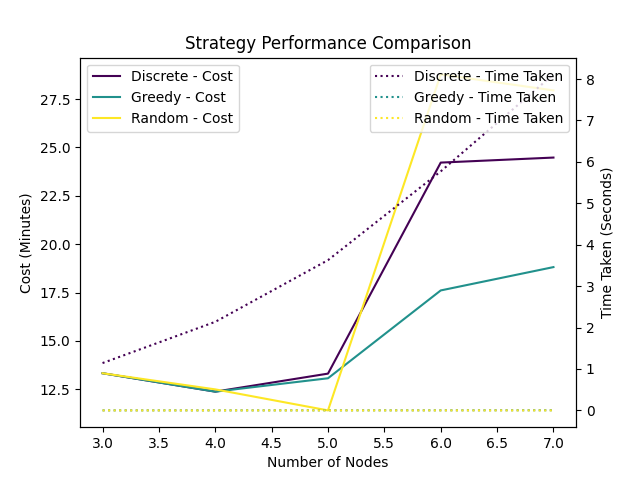
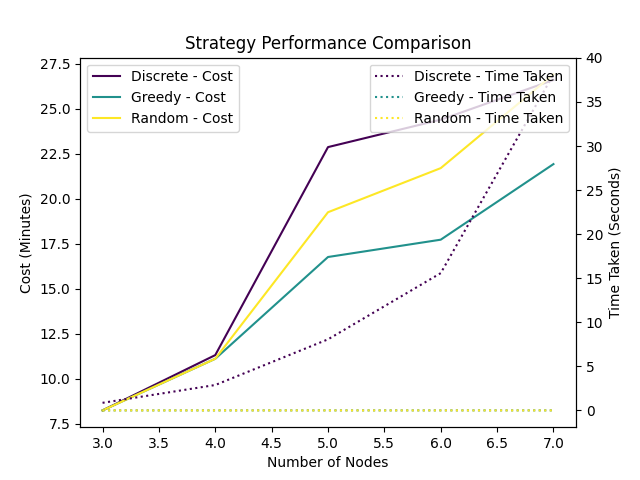
⚡ (speed up): Discrete strategy computes distances instead of recurring to a saved object

diff --git a/trafficTSP/Approaches/DiscreteWithGraph/discrete_strategy.py b/trafficTSP/Approaches/DiscreteWithGraph/discrete_strategy.py
@@ -5,9 +5,9 @@ Instead of passing once through each node, we pass by one of its vertices.
 """
 from itertools import product
 from collections import namedtuple
-from trafficTSP.Approaches.DiscreteWithGraph.discretise_graph import (
-    discretise_and_approximate_graph
-)
+# from trafficTSP.Approaches.DiscreteWithGraph.discretise_graph import (
+#     discretise_and_approximate_graph
+# )
 from ortools.linear_solver import pywraplp
 
 # Define Edge as a named tuple to improve readability
@@ -15,15 +15,17 @@ Edge = namedtuple('Edge', ['start_node', 'start_step', 'end_node', 'end_step'])
 
 
 def discrete_strategy(graph: dict,
-                      n_bins: int = 20,
+                      n_bins: int = 100,
                       starting_node: int = 0
                       ) -> float:
     """
     Discrete strategy to solve the TSP using OR-Tools.
     """
     n_nodes = graph['n_nodes']
-    # Discretize the graph
-    graph_df = discretise_and_approximate_graph(graph, n_bins)
+    time_range = graph['time_range']
+    time_increments = (time_range[1] - time_range[0])/(n_bins - 1)
+    # Define a large number for the M method
+    M = n_nodes * time_range[1]
 
     # Initialize OR-Tools solver
     solver = pywraplp.Solver.CreateSolver("SCIP")
@@ -32,27 +34,38 @@ def discrete_strategy(graph: dict,
     vertices = [{'node': i, 'step': t}
                 for i in range(n_nodes) for t in range(n_bins)]
 
+    # Define the objective function
+    objective = solver.Objective()
     # Define decision variables and associated costs
-    x = {}
-    cost = {}
+    x = dict()
+    cost = dict()
+    # Define continuous variable for each node
+    t = {node: solver.NumVar(0, solver.infinity(), f't_{node}')
+         for node in range(n_nodes)}
     # A variable will represent each edge that connect each pair two vertices
     # (two pairs of nodes and timesteps)
     for vertex1, vertex2 in product(vertices, vertices):
         if vertex1['node'] != vertex2['node']:
-            travel_time = graph_df.loc[
-                (graph_df['start_node'] == vertex1['node']) &
-                (graph_df['final_node'] == vertex2['node']) &
-                (graph_df['time'] == vertex1['step']),
-                'travel_time'
-            ].values[0]
-            if vertex2['step'] - vertex1['step'] > travel_time:
+            weight_func = graph[(vertex1['node'], vertex2['node'])]
+            travel_time = weight_func(vertex1['step'])
+            # The number of timesteps that the travel will take
+            # At least 1 to avoid loops
+            round_travel_timesteps = max(round(travel_time/time_increments),
+                                         1)
+            if vertex2['step'] - vertex1['step'] >= round_travel_timesteps:
                 # It is possible to travel from vertex1 to vertex2
                 edge = Edge(vertex1["node"], vertex1["step"],
                             vertex2["node"], vertex2["step"])
                 x[edge] = solver.BoolVar(
-                    f'x_{vertex1["node"]}_{vertex1["step"]}' +
-                    '_{vertex2["node"]}_{vertex2["step"]}')
-                cost[edge] = vertex2['step'] - vertex1['step']
+                    f'x_{edge.start_node}_{edge.start_step}' +
+                    f'_{edge.end_node}_{edge.end_step}')
+                cost[edge] = travel_time
+                # objective.SetCoefficient(x[edge], vertex2['step'] - vertex1['step'])
+                objective.SetCoefficient(x[edge], travel_time)
+                # If this edge is in the solution, time in arrival node should
+                # be greater than time in departure node plus travel time
+                # solver.Add(t[edge.end_node] + M * (1 - x[edge]) >=
+                #            t[edge.start_node] + travel_time)
 
     for node in range(n_nodes):
         # for each node, the sum of the variables representing leaving edges
@@ -62,22 +75,31 @@ def discrete_strategy(graph: dict,
         solver.Add(sum(receiving_edges) == 1)
         solver.Add(sum(leaving_edges) == 1)
 
-        receiving_time = sum([x[edge] * edge.end_step
-                              for edge in edges_to_node(node, x)])
+        arriving_time = sum([x[edge] * edge.end_step
+                             for edge in edges_to_node(node, x)])
         leaving_time = sum([x[edge] * edge.start_step
                             for edge in edges_from_node(node, x)])
         if node != starting_node:
-            # The we should leave a node only after arriving
-            solver.Add(receiving_time <= leaving_time)
+            # The we should leave a node in the same moment we arrive
+            solver.Add(arriving_time == leaving_time)
+            objective.SetCoefficient(x[edge], travel_time)
         else:
             # Except for the initial node
-            solver.Add(leaving_time <= receiving_time)
-            # Minimise the time of returning to the starting node
-            objective = solver.Objective()
-            objective.SetMinimization()
+            solver.Add(leaving_time <= arriving_time)
+
+    objective.SetMinimization()
+
+    print("Starting solver...")
 
     # Find the solution
     solver.Solve()
+
+    print("Solver finished.")
+
+    # Print all edges that are 1 in the solution
+    for edge in x.keys():
+        if x[edge].solution_value() == 1:
+            print(f"Edge {edge} is in the solution.")
 
     # Organize the solution as a list of nodes
     solution = [starting_node]
@@ -89,7 +111,9 @@ def discrete_strategy(graph: dict,
             ][0]
         next_node = next_edge.end_node
         solution.append(next_node)
-    # return the cost of the solution
+        print(f"step {next_edge.start_step} -> {next_edge.end_step}")
+        print(f"solution: {solution}")
+    # return the solution
     return solution
 
 

diff --git a/main.py b/main.py
@@ -5,6 +5,8 @@ from trafficTSP.Approaches.DiscreteWithGraph.discrete_strategy import (
     discrete_strategy
 )
 import argparse
+import random
+import time
 
 
 def main():
@@ -27,4 +29,9 @@ def main():
 
 
 if __name__ == "__main__":
+    # Fix the seed for reproducibility
+    random.seed(0)
+    start_time = time.time()
     main()
+    end_time = time.time()
+    print(f"Total time: {end_time - start_time} seconds.")

diff --git a/trafficTSP/Compare/compare_strategies.py b/trafficTSP/Compare/compare_strategies.py
@@ -37,6 +37,7 @@ def compare_strategies(strategies: dict,
                     "cost": cost,
                     "time_taken": time_taken
                 })
+                print(results)
 
     # Save to SQL
     save_results_to_sql(results)
